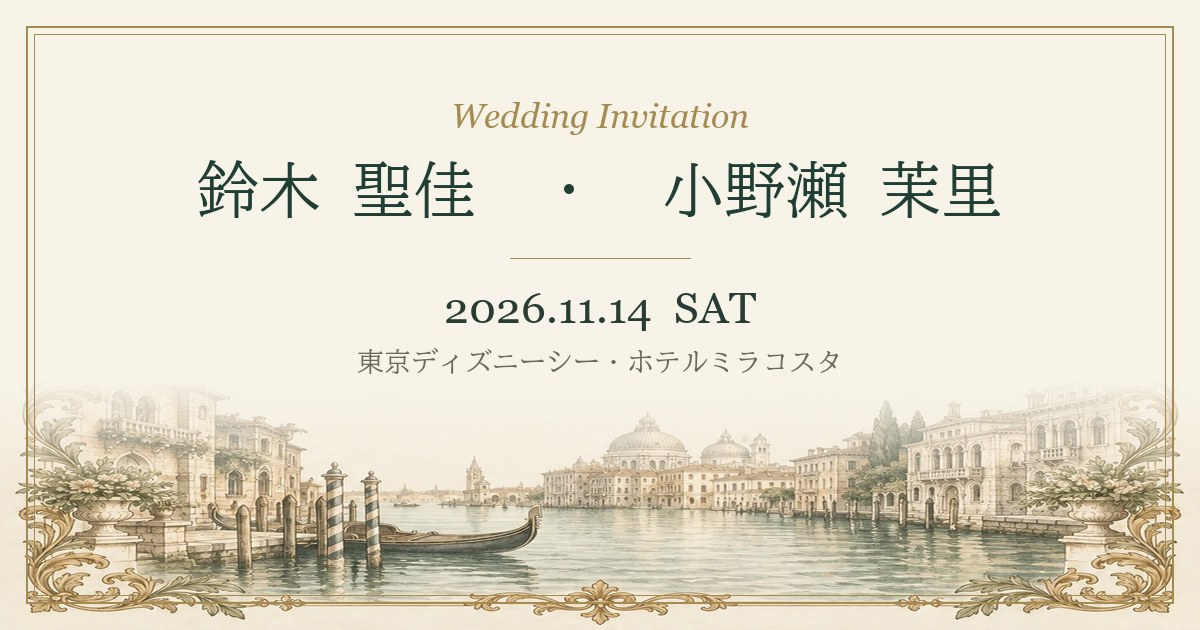
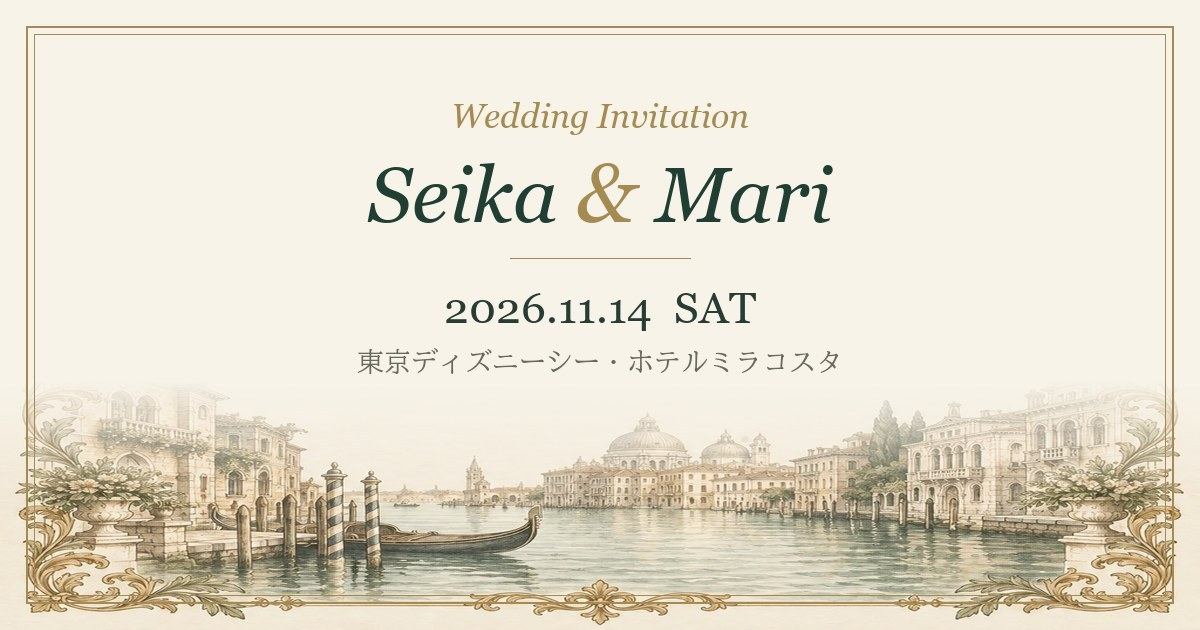
Use the romaji names on the share card

Changed region(s): [[0.1542, 0.2413, 0.7092, 0.3619], [0.74, 0.2413, 0.8325, 0.3619]]

diff --git a/index.html b/index.html
@@ -8,9 +8,9 @@
 <meta name="robots" content="noindex,nofollow">
 <meta property="og:type" content="website">
 <meta property="og:url" content="https://seika-mari-wedding.github.io/">
-<meta property="og:title" content="鈴木 聖佳 ・ 小野瀬 茉里 結婚式のご案内">
+<meta property="og:title" content="Seika &amp; Mari — 結婚式のご案内">
 <meta property="og:description" content="2026年11月14日（土）東京ディズニーシー・ホテルミラコスタ">
-<meta property="og:image" content="https://seika-mari-wedding.github.io/ogp.jpg">
+<meta property="og:image" content="https://seika-mari-wedding.github.io/ogp.jpg?v=2">
 <meta property="og:image:width" content="1200">
 <meta property="og:image:height" content="630">
 <meta property="og:locale" content="ja_JP">
